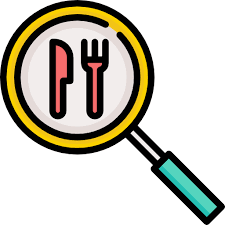
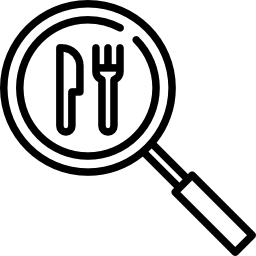
레시피 페이지 검색 버튼 수정

diff --git a/Freshow-app/app/recipepage.js b/Freshow-app/app/recipepage.js
@@ -1,9 +1,9 @@
-import React, { useState } from 'react'; 
-import { View, Text, TouchableOpacity, Image, FlatList, StatusBar, ActivityIndicator } from 'react-native'; 
-import { useRouter } from 'expo-router'; 
-import styles from './components/css/recipepagestyle'; 
-import OpenAI from "openai"; 
-import { OPENAI_API_KEY } from './components/apikey'; 
+import React, { useState } from 'react';
+import { View, Text, TouchableOpacity, Image, FlatList, StatusBar, ActivityIndicator } from 'react-native';
+import { useRouter } from 'expo-router';
+import styles from './components/css/recipepagestyle';
+import OpenAI from "openai";
+import { OPENAI_API_KEY } from './components/apikey';
 
 // OpenAI 클라이언트 설정
 const openai = new OpenAI({
@@ -20,7 +20,7 @@ const RecipePage = () => {
     const [loading, setLoading] = useState(false); // 로딩 상태 관리
 
     // 사용자가 가진 재료 목록 (여기서는 예시로 사용)
-    const ingredients = ['김치', '돼지고기', '두부', '마늘', '밥', '소시지', '김' ,'참기름'];
+    const ingredients = ['Egg', 'Rice', 'Cheese', 'Noodle' , 'Garlic' , 'Tomato' , 'kimchi', 'Meet', 'Onion'];
 
     // OpenAI API를 호출하여 레시피를 가져오는 함수
     const fetchRecipes = async (retryCount = 0) => {
@@ -30,45 +30,52 @@ const RecipePage = () => {
             const completion = await openai.chat.completions.create({
                 model: "gpt-3.5-turbo", // 사용 모델
                 messages: [
-                    { role: "system", content: "너는 한식을 추천해주는 유용한 도우미야." }, // 시스템 역할 정의
-                    { role: "user", content: `다음 재료들로만 사용함: ${ingredients.join(", ")}, 이것들로만 만들 수 있는 3가지 한식의 제목만 알려줘` } // 사용자 요청 메시지
+                    { role: "system", content: "You are a helpful assistant that suggests dishes." }, // 시스템 역할 정의
+                    { role: "user", content: `Using the following ingredients: ${ingredients.join(", ")}, recommend three dishes that can be made using only these ingredients in a JSON format like [{\"title\": \"Dish 1\"}, {\"title\": \"Dish 2\"}, {\"title\": \"Dish 3\"}] and respond in Korean.` } // 사용자 요청 메시지
                 ],
-                max_tokens: 100, // 응답 최대 토큰 수
+                max_tokens: 150, // 응답 최대 토큰 수
                 temperature: 0.7, // 출력의 다양성을 조절하는 값
             });
 
             // GPT-4 응답에서 레시피 목록 추출
-            const recommendedRecipes = completion.choices[0].message.content
-                .trim() // 공백 제거
-                .split('\n') // 줄바꿈을 기준으로 레시피를 나눔
-                .filter(recipe => recipe); // 빈 값 제거
+            const recommendedRecipes = JSON.parse(completion.choices[0].message.content);
 
             // 각 레시피에 대해 DALL-E API로 이미지 생성 요청
             const recipesWithImages = [];
             for (let i = 0; i < recommendedRecipes.length; i++) {
-                try {
-                    // 요청 간격을 두기 위해 2초 대기
-                    await new Promise(resolve => setTimeout(resolve, 2000));
+                let success = false;
+                let attempts = 0;
 
-                    // DALL-E API로 이미지 생성
-                    const imageGeneration = await openai.images.generate({
-                        prompt: `${recommendedRecipes[i]}의 음식 사진`, // 이미지 생성 설명
-                        n: 1, // 생성할 이미지 개수
-                        size: '1024x1024', // 이미지 크기
-                    });
+                while (!success && attempts < 3) {
+                    try {
+                        // 요청 간격을 두기 위해 2초 대기
+                        await new Promise(resolve => setTimeout(resolve, 2000));
 
-                    // 레시피 이름과 생성된 이미지 URL 저장
-                    recipesWithImages.push({
-                        id: i.toString(), // 고유 ID
-                        name: recommendedRecipes[i], // 레시피 이름
-                        image: imageGeneration.data[0].url, // 이미지 URL
-                    });
-                } catch (error) {
-                    console.error(`Error generating image for recipe "${recommendedRecipes[i]}":`, error);
-                    // 이미지 생성 실패 시 기본 이미지 사용
+                        // DALL-E API로 이미지 생성
+                        const imageGeneration = await openai.images.generate({
+                            prompt: `${recommendedRecipes[i].title} dish, professional food photography in a studio setting.`, // 이미지 생성 설명
+                            n: 1, // 생성할 이미지 개수
+                            size: '1024x1024', // 이미지 크기
+                        });
+
+                        // 레시피 이름과 생성된 이미지 URL 저장
+                        recipesWithImages.push({
+                            id: i.toString(), // 고유 ID
+                            name: recommendedRecipes[i].title, // 레시피 이름
+                            image: imageGeneration.data[0].url, // 이미지 URL
+                        });
+                        success = true;
+                    } catch (error) {
+                        attempts++;
+                        console.error(`Attempt ${attempts} failed for recipe "${recommendedRecipes[i].title}"`, error);
+                    }
+                }
+
+                // 재시도 후에도 실패한 경우 기본 이미지 추가
+                if (!success) {
                     recipesWithImages.push({
                         id: i.toString(),
-                        name: recommendedRecipes[i],
+                        name: recommendedRecipes[i].title,
                         image: 'https://via.placeholder.com/1024', // 기본 이미지 URL
                     });
                 }
@@ -105,7 +112,7 @@ const RecipePage = () => {
             <Image source={require('../assets/RecipeRecommendLogo.png')} style={styles.Logo} /> {/* 로고 이미지 */}
 
             <TouchableOpacity style={styles.fetchButton} onPress={fetchRecipes}> {/* 버튼을 누르면 레시피를 가져옴 */}
-                <Text style={styles.fetchButtonText}>레시피 추천받기</Text>
+                <Image source={require('../assets/FoodSearchBtn.png')} style={styles.searchIcon} />
             </TouchableOpacity>
 
             {/* 로딩 상태 표시 */}

diff --git a/Freshow-app/app/components/css/recipepagestyle.js b/Freshow-app/app/components/css/recipepagestyle.js
@@ -58,7 +58,7 @@ const styles = StyleSheet.create({
     backButtonIcon: {
         width: 100,
         height: 100,
-        marginRight: 10,
+        marginRight: 5,
         resizeMode: 'contain',
         marginBottom: 55,
         alignItems: 'center',
@@ -67,6 +67,12 @@ const styles = StyleSheet.create({
         fontSize: 16,
         color: '#333333',
     },
+    searchIcon: {
+        width: 50,
+        height: 50,
+        marginLeft: 155,
+        resizeMode: 'contain',
+    }
 });
 
 export default styles;
